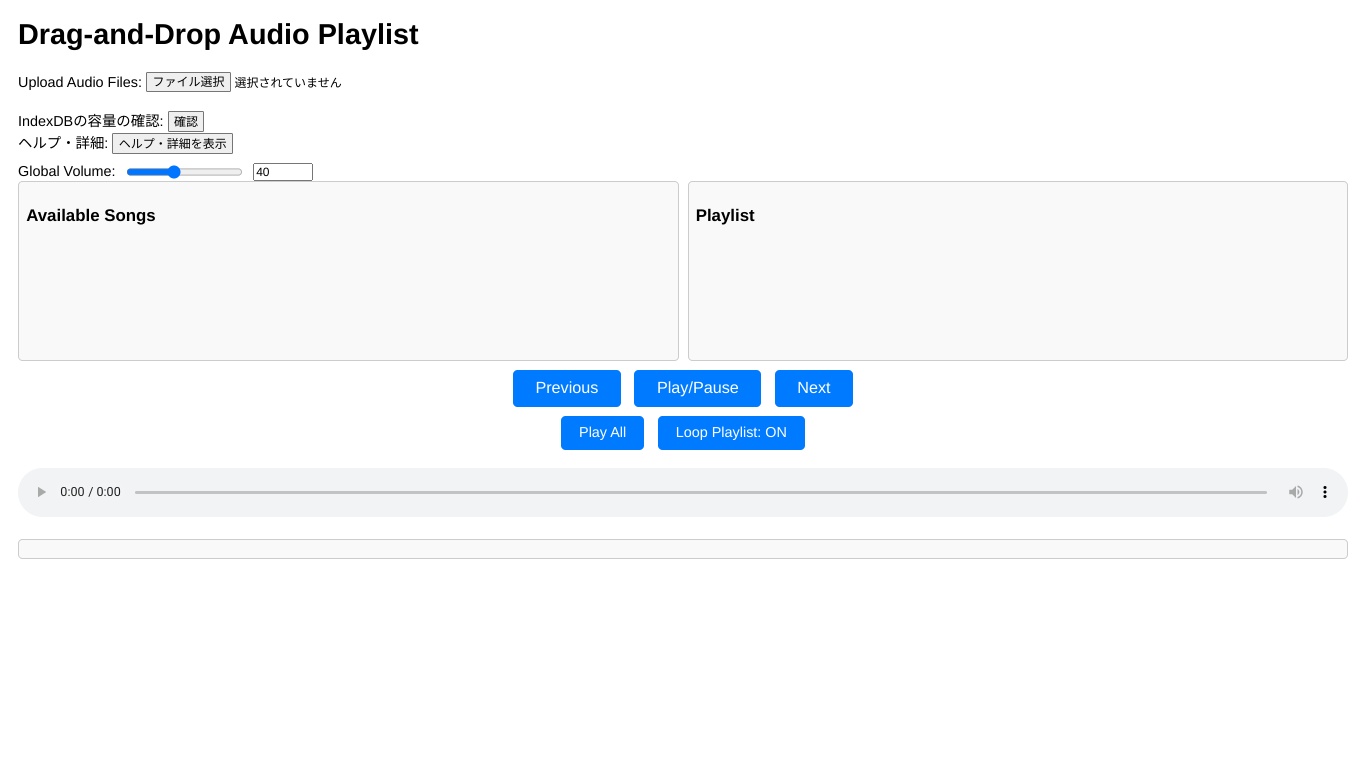
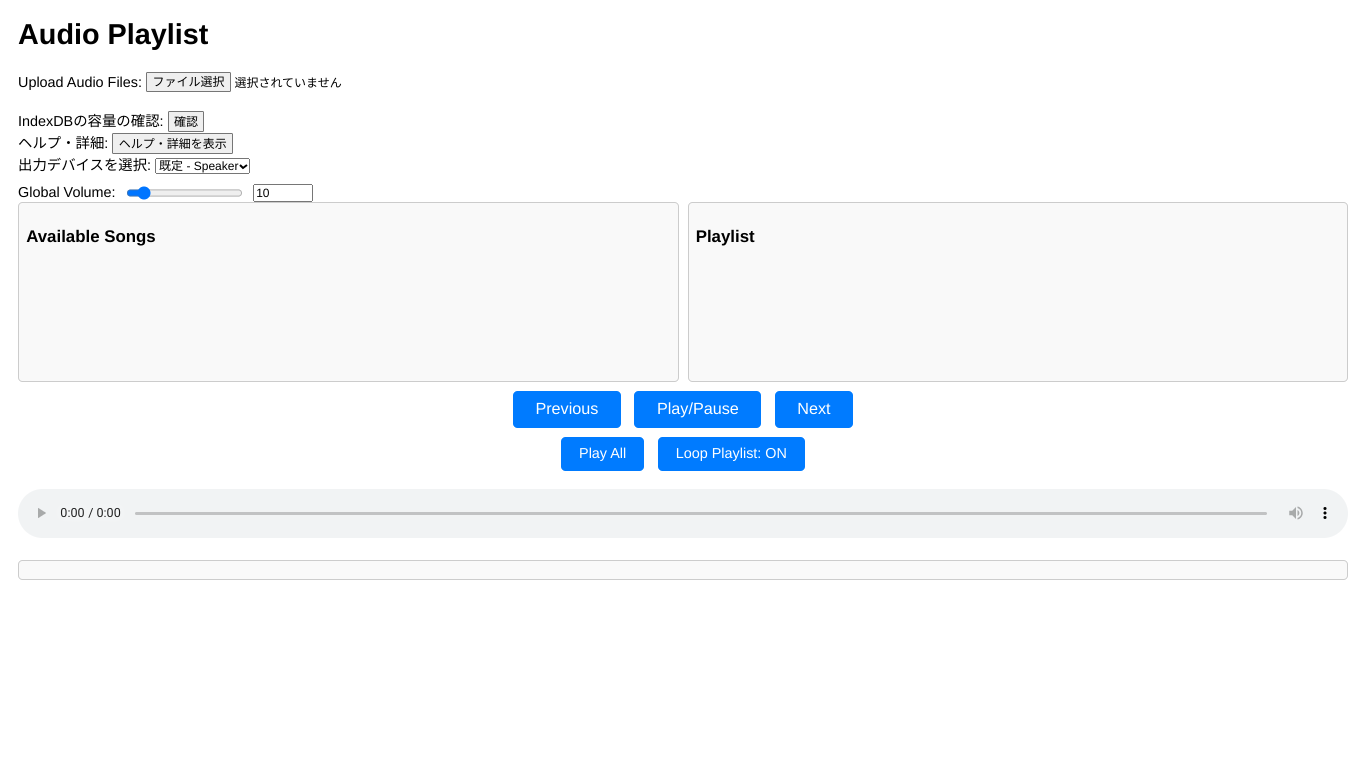
出力デバイスの変更を可能に...

diff --git a/help.html b/help.html
@@ -35,6 +35,10 @@
                 <p>「ヘルプ・詳細」を押すとヘルプ・詳細が表示されます。</p>
                 <img src="images/help.png" alt="ヘルプ・詳細" border="1">
 
+            <h4>出力デバイスの変更</h4>
+                <p>出力デバイスを変更できます。(これはHTTPで実行してないと表示されません)</p>
+                <img src="images/Audio device.png" alt="出力デバイスの変更" border="1">        
+
             <h4>グローバル音量の設定</h4>
                 <p>「Global Volume」で全体の音量を調整可能です。（初期設定: 10）</p>
                 <img src="images/Gloval Volume.png" alt="グローバル音量の設定" border="1">

diff --git a/index.html b/index.html
@@ -9,6 +9,7 @@
 <meta property="og:image" content="サムネイル画像のURL" />
     <title>Play List</title>
     <link rel="stylesheet" href="style.css">
+    <link rel="shortcut icon" href="images/Set.png" type="image/x-icon">
     <script src="script.js" defer></script>
 </head>
 <body>

diff --git a/README.md b/README.md
@@ -29,6 +29,10 @@
 「ヘルプ・詳細」を押すとヘルプ・詳細が表示されます。
 ![help](images/help.png)
 
+#### 出力デバイスの変更
+出力デバイスを変更できます。(これはHTTPで実行してないと表示されません)
+![Audio device](images/Audio%20device.png)
+
 #### グローバル音量の設定
 「Global Volume」で全体の音量を調整可能です。（初期設定: 10）  
 ![Global Volume](images/Gloval%20Volume.png)
